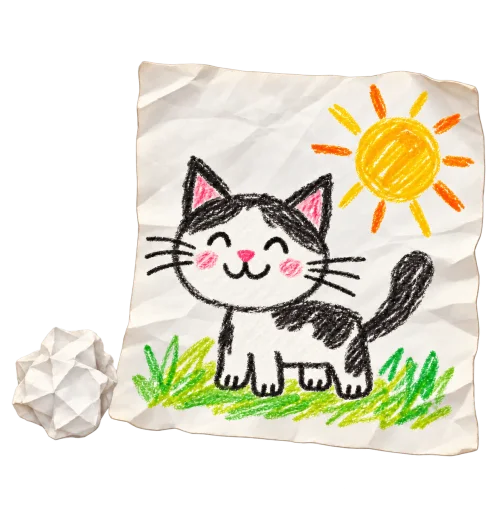
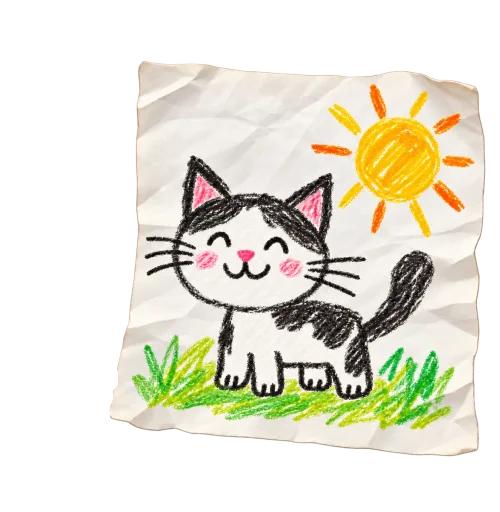
Drawing の絵から丸めた紙を除去、指示を本棚行きに変更

Changed region(s): [[0.03, 0.625, 0.24, 0.875]]

diff --git a/index.html b/index.html
@@ -547,7 +547,7 @@
         {item:'doll',target:'mom',caption:'{nounJp}で いっしょに あそぼう。',randomNouns:[{en:'doll',jp:'おにんぎょう'},{en:'stuffed toy',jp:'ぬいぐるみ'}],phrases:['Let’s play with the {noun} together.','Let’s play with the {noun} together.','Shall we play with the {noun}?']},
         {item:'cookie-wrapper',target:'bin',caption:'おかしの ふくろを すてて。',captions:['おかしの ふくろを すてて。','おかしの ふくろを ゴミばこに いれて。','おかしの ふくろを すてて。'],phrases:['Throw the snack wrapper away.','Please put the snack wrapper in the trash can.','Can you throw the snack wrapper away?']},
         {item:'cookie-wrapper',target:'table',caption:'クッキーを テーブルに おいて。',phrases:['Put the cookie on the table.','Please put the cookie on the table.','Can you put the cookie on the table?']},
-        {item:'cat-drawing',target:'bin',caption:'かみを ゴミばこに いれて。',phrases:['Throw the paper away.','Please throw the paper away.','Can you throw the paper away?']},
+        {item:'cat-drawing',target:'bookshelf',caption:'えを ほんだなに おいて。',phrases:['Pick up the drawing and put it on the bookshelf.','Please pick up the drawing and put it on the bookshelf.','Can you pick up the drawing and put it on the bookshelf?']},
         {item:'cat-drawing',target:'table',caption:'えを テーブルに おいて。',phrases:['Put the drawing on the table.','Please put the drawing on the table.','Can you put the drawing on the table?']},
         {item:'cat-drawing',target:'mom',caption:'えを みせて。',phrases:['Show me your drawing.','I want to see your drawing.','Can you show me your drawing?']}
       ];

diff --git a/docs/image-log.md b/docs/image-log.md
@@ -2,6 +2,13 @@
 
 このファイルは `docs/image-prompts.md` に基づく制作の記録。**候補と採用済みを区別する。** 新しい画像を採用した場合は、実際に使ったプロンプト全文、添付した基準画像、透過・サイズ検査、所有者の承認を追記する。
 
+## 2026-10-12 — リビング／Item Match「Drawing」のくしゃくしゃの紙を除去
+
+- **公開画像：** `living-item-cat-drawing-v3.png.webp`（500×512px）。リビングの Listen & Do と Item Match の Drawing で共用する同名ファイルを上書きした。猫の絵の紙だけを残し、左下の別のくしゃくしゃの紙を透明にした。画像生成は使っていない。
+- **元版：** 上書き前の画像を `private-prototypes/living-item-cat-drawing-v3-with-crumpled-paper.png.webp` にバイト単位で一致するコピーとして退避した。画像の位置・寸法・透過形式は維持した。
+- **編集と確認：** 丸まりと紙の接する境目に沿う領域を指定し、元画像で可視だった9,342画素だけを透明にした。復号後のRGBA画素を比較し、指定領域外の変更は0画素。四隅のアルファ値はすべて0。暗い背景とカードに近いクリーム色の背景で左下を拡大して確認し、丸まりの消し残りや半透明のもやは見当たらなかった。
+- **指示との対応：** `cat-drawing` をゴミ箱に捨てる指示は廃止し、既存の「本→本棚」と同じ `Pick up ... and put it on the bookshelf.` 型の3文で、Drawing を本棚に置く指示へ変更した。Drawing→テーブル、Drawing→ママと、ほかの物をゴミ箱へ入れる指示は維持する。
+
 ## 2026-10-11 — Action Match 女の子版「Open it.」「Close it.」カーテンを若草色に変更
 
 - **理由・採用：** 元の淡いクリーム色のカーテンは、実際のカードのクリーム色の背景に溶けて見えにくかった。落ち着いた若草色（基準 `#8FBF6A`）で全面的に描き直した `private-prototypes/action-match/action-open-girl-v4a.png.webp` を採用し、公開ルートの `action-open-girl-v2a.png.webp` にコピーして上書きした。候補 v4b は不採用。
